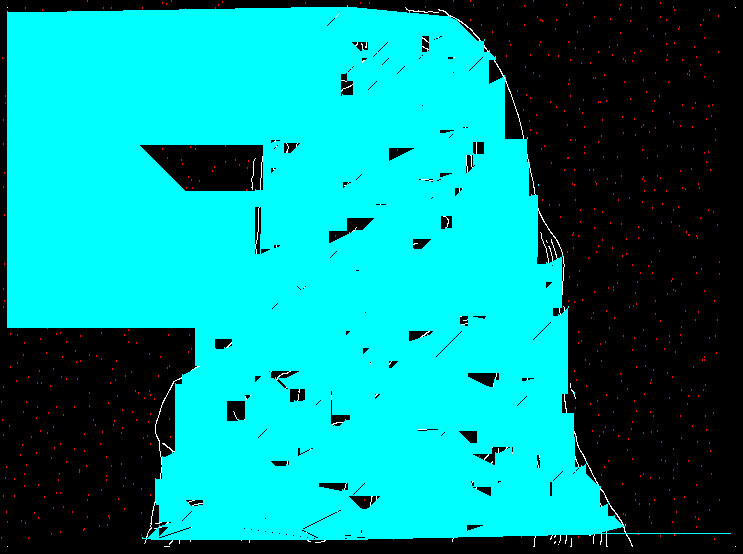
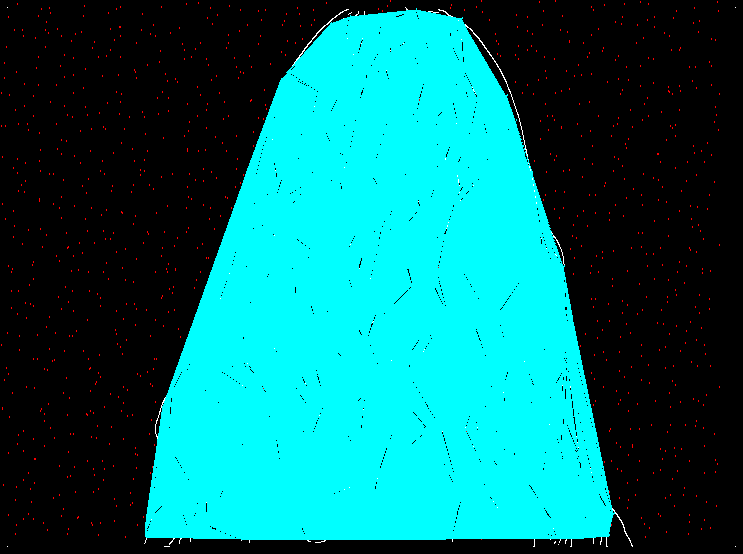
triangle fill clear

diff --git a/test.html b/test.html
@@ -4,6 +4,7 @@
 <body>
 	<script type="text/javascript" src="./img/test.js"></script>
 	<img src="./img/test2.jpg">
+	<img src="./img/test3.jpg">
 	<script src="http://localhost:35729/livereload.js"></script>
 </body>
 </html>

diff --git a/src/triangle/Drawer.java b/src/triangle/Drawer.java
@@ -68,8 +68,8 @@ public class Drawer {
 		int cnt = 0;
 		while (iter.hasNext()) {
 			Triangle_dt triangle = iter.next();
-			cnt++;
 			if (triangle.p1() != null && triangle.p2() != null && triangle.p3() != null) {
+			cnt++;
 				Point_dt p1 = triangle.p1();
 				Point_dt p2 = triangle.p2();
 				Point_dt p3 = triangle.p3();
@@ -84,82 +84,41 @@ public class Drawer {
 	}
 
 	public void fillTriangle() {
-		// *** begin triangle filler ***
-		// A.y<=B.y<=C.y
-		//
-		// if (B.y-A.y > 0) dx1=(B.x-A.x)/(B.y-A.y) else dx1=0;
-		// if (C.y-A.y > 0) dx2=(C.x-A.x)/(C.y-A.y) else dx2=0;
-		// if (C.y-B.y > 0) dx3=(C.x-B.x)/(C.y-B.y) else dx3=0;
-		//
-		// S=E=A;
-		// if(dx1 > dx2) {
-		// for(;S.y<=B.y;S.y++,E.y++,S.x+=dx2,E.x+=dx1)
-		// horizline(S.x,E.x,S.y,color);
-		// E=B;
-		// for(;S.y<=C.y;S.y++,E.y++,S.x+=dx2,E.x+=dx3)
-		// horizline(S.x,E.x,S.y,color);
-		// } else {
-		// for(;S.y<=B.y;S.y++,E.y++,S.x+=dx1,E.x+=dx2)
-		// horizline(S.x,E.x,S.y,color);
-		// S=B;
-		// for(;S.y<=C.y;S.y++,E.y++,S.x+=dx3,E.x+=dx2)
-		// horizline(S.x,E.x,S.y,color);
-		// }
-		//
-		// *** end triangle filler ***
+//		Graphics2D g = bi.createGraphics();
+		int cnt = 0;
 		while (triangles.hasNext()) {
 			Triangle_dt triangle = triangles.next();
 			if (triangle.p1() != null && triangle.p2() != null && triangle.p3() != null) {
+				cnt++;
 				List<Point_dt> list = sortPointY(triangle);
-				Point a = new Point((int) list.get(0).x(), (int) list.get(0).y());
-				Point b = new Point((int) list.get(1).x(), (int) list.get(1).y());
-				Point c = new Point((int) list.get(2).x(), (int) list.get(2).y());
+				Point v1 = new Point((int) list.get(0).x(), (int) list.get(0).y());
+				Point v2 = new Point((int) list.get(1).x(), (int) list.get(1).y());
+				Point v3 = new Point((int) list.get(2).x(), (int) list.get(2).y());
 
-				int dx1, dx2, dx3;
-				if (b.y() - a.y() > 0)
-					dx1 = (b.x() - a.x()) / (b.y() - a.y());
-				else
-					dx1 = 0;
-				if (c.y() - a.y() > 0)
-					dx2 = (c.x() - a.x()) / (c.y() - a.y());
-				else
-					dx2 = 0;
-				if (c.y() - b.y() > 0)
-					dx3 = (c.x() - b.x()) / (c.y() - b.y());
-				else
-					dx3 = 0;
-				Point s = new Point(a.x(), a.y());
-				Point e = new Point(a.x(), a.y());
-				if (dx1 > dx2) {
-					for (; s.y() <= b.y(); s.setY(s.y() + 1), e.setY(s.y() + 1), s
-							.setX(s.x() + dx2), e.setX(e.x() + dx1))
-						horizline(s.x(), e.x(), s.y());
-					e.setX(b.x());
-					e.setY(b.y());
-					for (; s.y() <= c.y(); s.setY(s.y() + 1), e.setY(s.y() + 1), s
-							.setX(s.x() + dx2), e.setX(e.x() + dx3))
-						horizline(s.x(), e.x(), s.y());
-				} else {
-					for (; s.y() <= b.y(); s.setY(s.y() + 1), e.setY(s.y() + 1), s
-							.setX(s.x() + dx1), e.setX(e.x() + dx2))
-						horizline(s.x(), e.x(), s.y());
-					s.setX(b.x());
-					s.setY(b.y());
-					for (; s.y() <= c.y(); s.setY(s.y() + 1), e.setY(s.y() + 1), s
-							.setX(s.x() + dx3), e.setX(e.x() + dx2))
-						horizline(s.x(), e.x(), s.y());
+//				g = bi.createGraphics();
+//				g.fillPolygon(new int[]{v1.x(), v2.x(), v3.x()}, new int[] {v1.y(),v2.y(),v3.y()}, 3);
+				
+				if (v2.y() == v3.y()) {
+					fillBottomFlatTriangle(v1, v2, v3);
 				}
+				else if (v1.y() == v2.y()) {
+					fillTopFlatTriangle(v1, v2, v3);
+				} else {
 
+					Point v4 = new Point(
+							(int) (v1.x() + ((float) (v2.y() - v1.y()) / (float) (v3.y() - v1.y()))
+									* (v3.x() - v1.x())), v2.y());
+					fillBottomFlatTriangle(v1, v2, v4);
+					fillTopFlatTriangle(v2, v4, v3);
+					
+					System.out.println("x1 : " + v1.x() + ", y1 : " + v1.y());
+					System.out.println("x2 : " + v2.x() + ", y2 : " + v2.y());
+					System.out.println("x3 : " + v3.x() + ", y3 : " + v3.y());
+					System.out.println("x4 : " + v4.x() + ", y4 : " + v4.y());
+				}
 			}
-			//break;
 		}
-
-	}
-
-	public void horizline(int sx, int ex, int sy) {
-		for (int i = 0; i < ex - sx; i++) {
-			bi.setRGB(sx + i, sy, Color.cyan.getRGB());			
-		}
+		System.out.println("Triangle : " + cnt);
 	}
 
 	public List<Point_dt> sortPointY(Triangle_dt t) {
@@ -168,12 +127,59 @@ public class Drawer {
 		list.add(t.p2());
 		list.add(t.p3());
 		Collections.sort(list, new NoAscCompare());
+		
+		for (Point_dt point_dt : list) {
+			System.out.println("x: " + point_dt.x() + " y: " + point_dt.y());
+		}
+		
 		return list;
-
-		// for (Point_dt p : list) {
-		// System.out.println(p.y());
-		// }
-		// System.out.println();
 	}
 
+	public void fillBottomFlatTriangle(Point v1, Point v2, Point v3) {
+		if(v2.x() > v3.x())
+			swapPoint(v2, v3);
+		
+		float invslope1 = (float)(v2.x() - v1.x()) / (float)(v2.y() - v1.y());
+		float invslope2 = (float)(v3.x() - v1.x()) / (float)(v3.y() - v1.y());
+
+		float curx1 = v1.x();
+		float curx2 = v1.x();
+
+		for (int scanlineY = v1.y(); scanlineY <= v2.y(); scanlineY++) {
+			drawLine((int) curx1, (int) curx2, scanlineY);
+			curx1 += invslope1;
+			curx2 += invslope2;
+		}
+	}
+
+	public void fillTopFlatTriangle(Point v1, Point v2, Point v3) {
+		if(v1.x() > v2.x())
+			swapPoint(v1, v2);
+		
+		float invslope1 = (float)(v3.x() - v1.x()) / (float)(v3.y() - v1.y());
+		float invslope2 = (float)(v3.x() - v2.x()) / (float)(v3.y() - v2.y());
+
+		float curx1 = v3.x();
+		float curx2 = v3.x();
+
+		for (int scanlineY = v3.y(); scanlineY > v1.y(); scanlineY--) {
+			curx1 -= invslope1;
+			curx2 -= invslope2;
+			drawLine((int) curx1, (int) curx2, scanlineY);
+		}
+	}
+	
+	public void swapPoint(Point a, Point b){
+		Point temp = new Point(a.x(), a.y());
+		a.setX(b.x());
+		a.setY(b.y());
+		b.setX(temp.x());
+		b.setY(temp.y());
+	}
+
+	public void drawLine(int sx, int ex, int sy) {
+		for (int i = 0; i < ex - sx; i++) {
+			bi.setRGB(sx + i, sy, Color.cyan.getRGB());
+		}
+	}
 }

diff --git a/src/triangleTest/DrawerTest.java b/src/triangleTest/DrawerTest.java
@@ -1,0 +1,54 @@
+package triangleTest;
+
+import java.awt.Color;
+import java.awt.Graphics2D;
+import java.awt.image.BufferedImage;
+import java.io.File;
+import java.io.IOException;
+
+import javax.imageio.ImageIO;
+
+import org.junit.Test;
+
+import triangle.Controller;
+import triangle.Drawer;
+import triangle.Point;
+
+public class DrawerTest {
+
+	@Test
+	public void triangleFillTest() throws IOException {
+		String out01 = "./img/test2.jpg";
+		String out02 = "./img/test3.jpg";
+
+		File outFile01 = new File(out01);
+		File outFile02 = new File(out02);
+
+		BufferedImage bi = new BufferedImage(800, 800, BufferedImage.TYPE_INT_ARGB);
+		Drawer drawer = new Drawer(bi);
+		Point v1 = new Point(100, 100);
+		Point v2 = new Point(200, 200);
+		Point v3 = new Point(150, 300);
+		Point v4 = new Point(
+				(int) (v1.x() + ((float) (v2.y() - v1.y()) / (float) (v3.y() - v1.y()))
+						* (v3.x() - v1.x())), v2.y());
+		System.out.println("x4 : " + v4.x() + ", y4 : " + v4.y());
+		drawer.fillBottomFlatTriangle(v1, v4, v2);
+		drawer.fillTopFlatTriangle(v4, v2, v3);
+		
+		ImageIO.write(bi, "png", outFile01);
+
+		BufferedImage bi2 = new BufferedImage(800, 800, BufferedImage.TYPE_INT_ARGB);
+		Graphics2D g = bi2.createGraphics();
+		g.setColor(Color.BLACK);
+		g.drawOval(v1.x() - 1, v1.y() - 1, 2, 2);
+		g.drawOval(v2.x() - 1, v2.y() - 1, 2, 2);
+		g.drawOval(v3.x() - 1, v3.y() - 1, 2, 2);
+		g.drawOval(v4.x() - 1, v4.y() - 1, 2, 2);
+
+		
+		ImageIO.write(bi2, "png", outFile02);
+		Controller.fileWriteForGrunt();
+	}
+
+}

diff --git a/src/triangle/Controller.java b/src/triangle/Controller.java
@@ -64,7 +64,10 @@ public class Controller {
 			long endTime = System.currentTimeMillis();
 			System.out.println(endTime - startTime + " ms");
 
+			String outputPath2 = "./img/test3.jpg";
+			File outputFile2 = new File(outputPath2);
 			ImageIO.write(edges, "png", outputFile);
+			ImageIO.write(canvas, "png", outputFile2);
 
 		} catch (IOException e) {
 			// TODO Auto-generated catch block
@@ -99,3 +102,5 @@ public class Controller {
 // http://derek.dkit.ie/graphics/regionFilling/regionFilling.html
 // Triangulation
 // http://jonathanpuckey.com/projects/delaunay-raster/
+// TriangleFill
+// http://www.sunshine2k.de/coding/java/TriangleRasterization/TriangleRasterization.html
